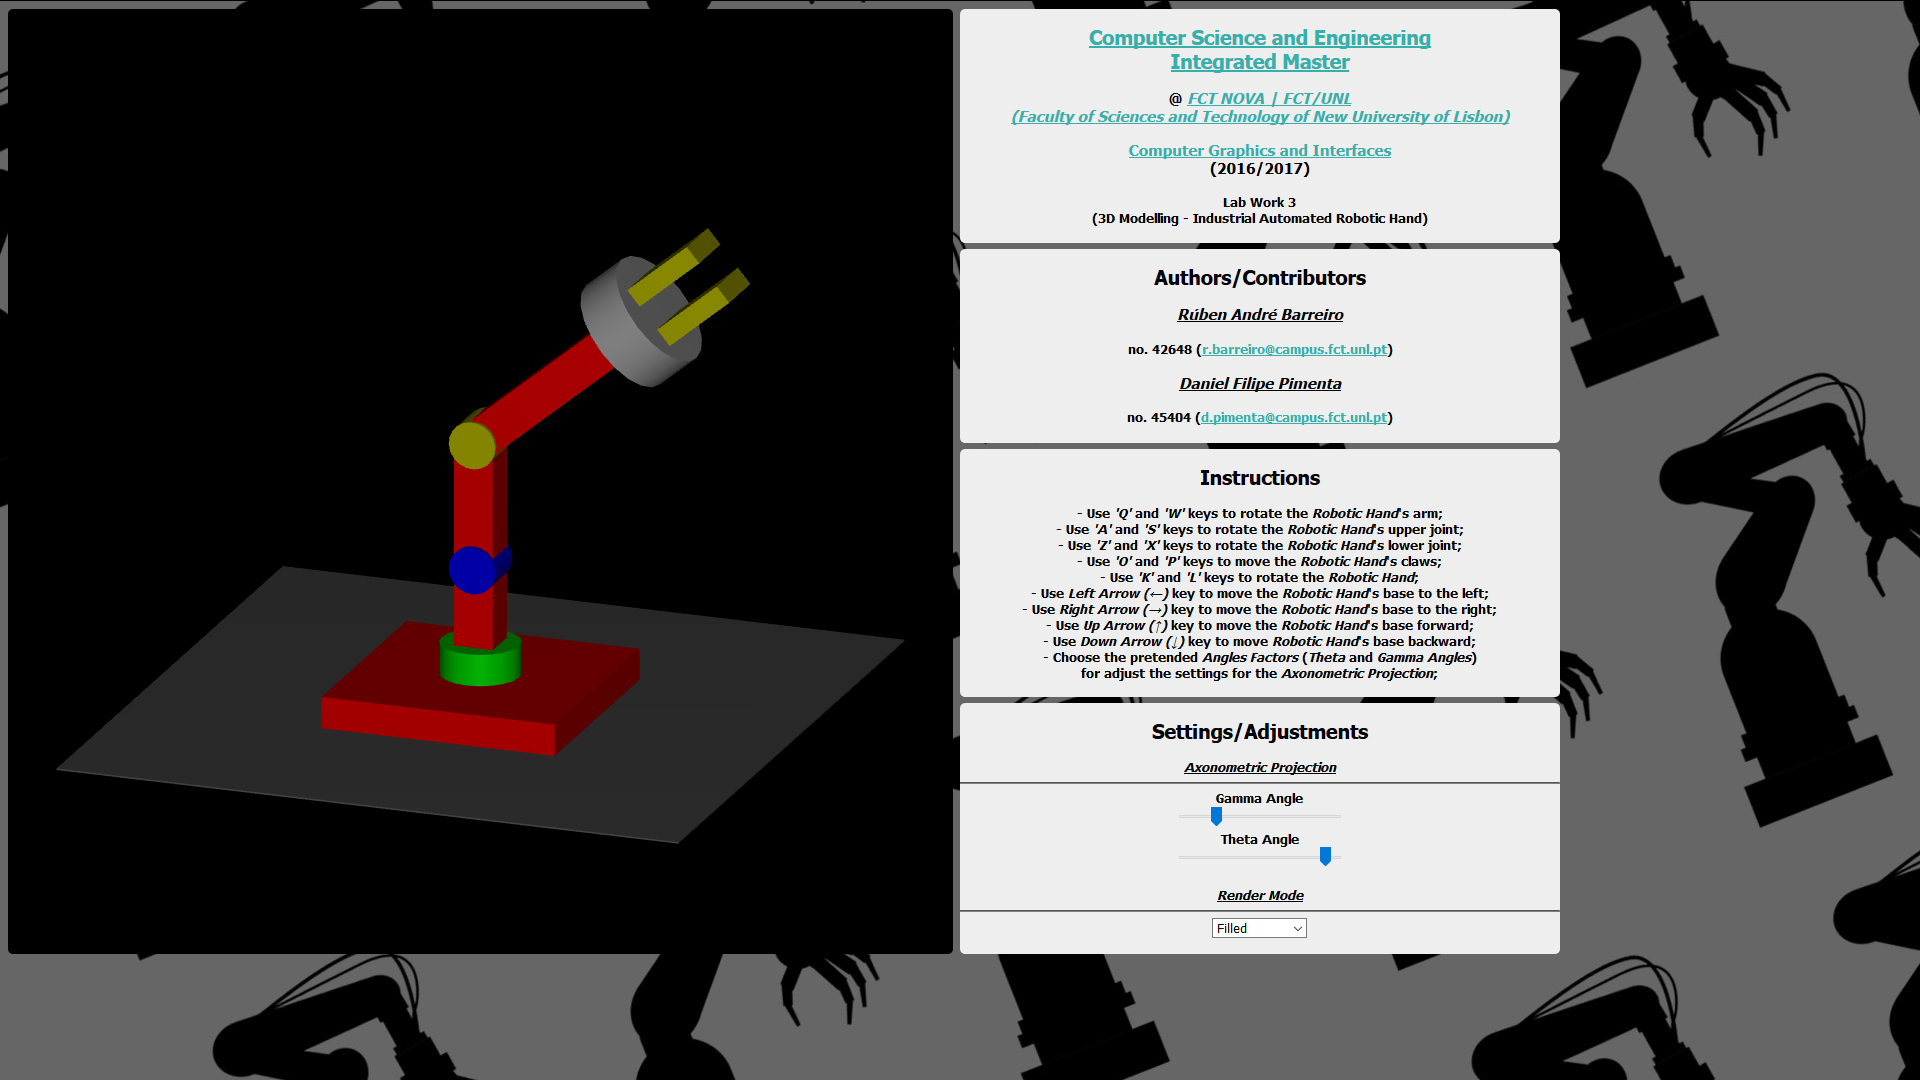
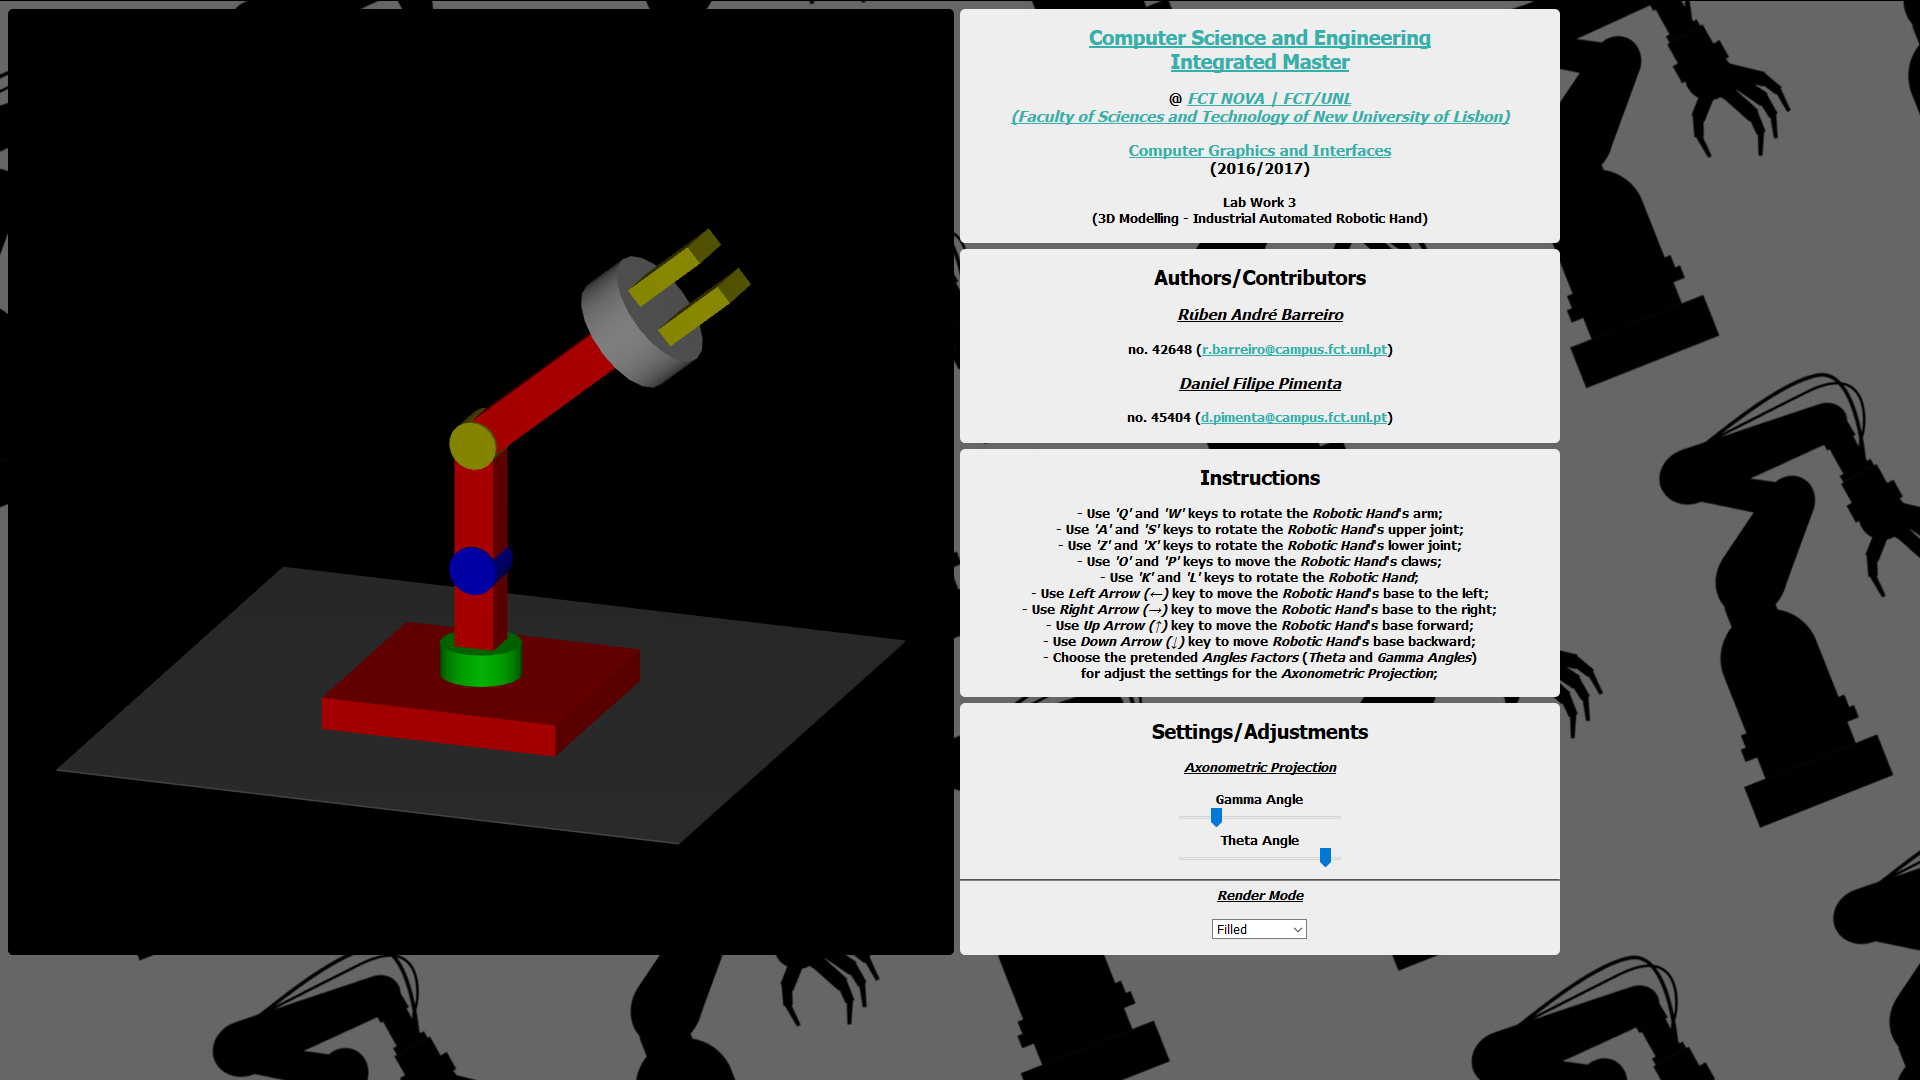
Some minor changes
Some minor changes

Changed region(s): [[0.625, 0.825, 0.6875, 0.8861], [0.625, 0.7333, 0.6875, 0.7944]]

diff --git a/projects/webgl/3d-object-modelling-robotic-hand/3d-object-modelling-robotic-hand.html b/projects/webgl/3d-object-modelling-robotic-hand/3d-object-modelling-robotic-hand.html
@@ -175,7 +175,7 @@
     <body id ="mainbody">
       <title>3D Modelling - Industrial Automated Robotic Hand</title>
         <div id="container" style="display: inline-block">
-            <canvas id="gl-canvas" width="945" height="945" style="border-radius: 5px;"> Oops... your browser doesn't support the HTML5 canvas element"
+            <canvas id="gl-canvas" width="946" height="946" style="border-radius: 5px;"> Oops... your browser doesn't support the HTML5 canvas element"
             </canvas>
         </div>
 
@@ -266,7 +266,8 @@
             </h2>
 
             <u><i>Axonometric Projection</i></u>
-            <hr/>
+            <br/>
+            <br/>
             Gamma Angle
             <br/>
             <input id="gamma" type="range" min="0" max="90" step="1" value="19.4205368891236">
@@ -275,10 +276,10 @@
             <br/>
             <input id="theta" type="range" min="0" max="360" step="1" value="339.731932804673">
             <br/>
-            <br/>
-            <u><i>Render Mode</i></u>
             <hr/>
-
+            <u><i>Render Mode</i></u>
+            <br/>
+            <br/>
             <select id="render">
                 <option> Filled </option>
                 <option> Wire Frame </option>
